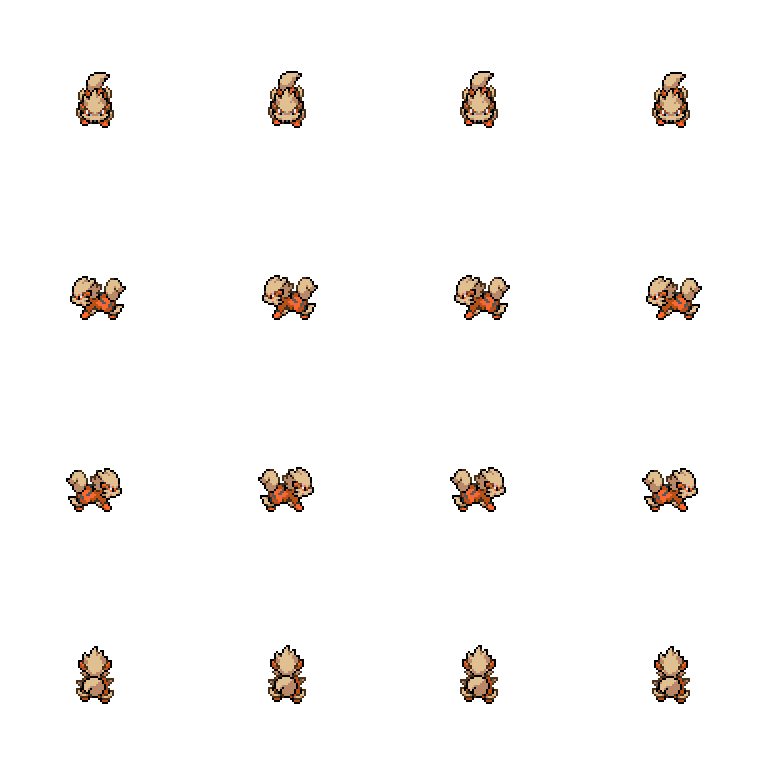
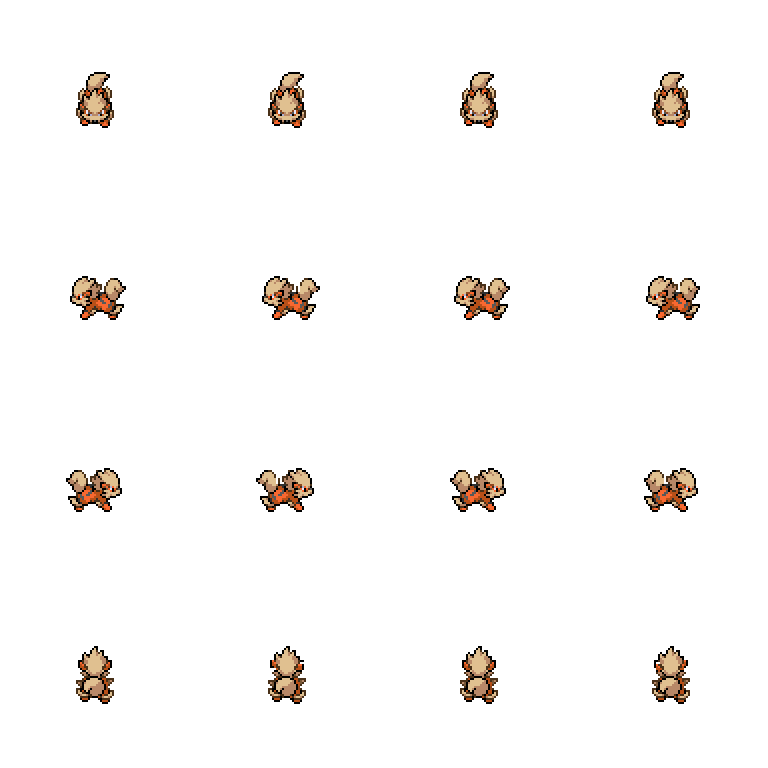
Replace Arcanine idle body lift with tail and ear motion

diff --git a/tools/build_mount_idle_pilot.py b/tools/build_mount_idle_pilot.py
@@ -1,8 +1,8 @@
 """Author four native-pixel idle cels for Arcanine and Lapras.
 
 Frame zero is the approved resting pose. Walking atlases are never modified.
-Arcanine's upper body lifts one pixel while the paws stay planted; the one-pixel
-join is filled from its existing fur. Lapras rises/falls one pixel above its
+Arcanine holds its body and rider still and moves only the tail tuft (ear tips from behind).
+Lapras rises/falls one pixel above its
 unchanged bottom water-contact rows. No scaling, rotation or interpolation.
 """
 import argparse
@@ -30,6 +30,36 @@ def move_upper(image, split, dy):
     return out
 
 
+def move_tail_tip(image, row, phase):
+    # Tail-only regions in the original 64px follower cell (origin 64,64).
+    # From behind the tail lies across the rump, so use the exposed ear tips
+    # instead: never cut a moving patch out of the body underneath the tail.
+    if not phase:
+        return image.copy()
+    if row == 3:
+        parts = [((16,22,20,30), 0, -phase), ((44,22,48,30), 0, phase)]
+    else:
+        regions = ((22,8,46,22), (42,22,64,36), (0,22,22,36))
+        parts = [(regions[row], phase if row != 2 else -phase, 0)]
+    out = image.copy()
+    protected = image.copy()
+    for region,dx,dy in parts:
+        x0,y0,x1,y1 = region
+        box = (64+x0,64+y0,64+x1,64+y1)
+        out.paste((0,0,0,0), box)
+        out.alpha_composite(image.crop(box), (box[0]+dx,box[1]+dy))
+        travel = (box[0]+min(0,dx),box[1]+min(0,dy),
+                  box[2]+max(0,dx),box[3]+max(0,dy))
+        protected.paste((0,0,0,0), travel)
+    actual = out.copy()
+    for region,dx,dy in parts:
+        x0,y0,x1,y1 = region
+        actual.paste((0,0,0,0), (64+x0+min(0,dx),64+y0+min(0,dy),
+                                  64+x1+max(0,dx),64+y1+max(0,dy)))
+    assert protected.tobytes() == actual.tobytes(), 'Arcanine body changed'
+    return out
+
+
 def build(check=False):
     path = ROOT/'data/mounts.json'
     text = path.read_text()
@@ -47,7 +77,7 @@ def build(check=False):
             filename = layer+'.png' if surf else 'idle_'+layer+'.png'
             sources[layer] = Image.open(folder/filename).convert('RGBA')
         sheets = {k: Image.new('RGBA', (size*4, size*4)) for k in ('mount','foreground','rider_mask')}
-        phases = (0, -1, 0, 1) if surf else (0, -1, -1, 0)
+        phases = (0, -1, 0, 1) if surf else (0, 2, 0, -2)
         seats = {}
         for row, direction in enumerate(DIRECTIONS):
             tiles = {key: im.crop((0,row*size,size,(row+1)*size)) for key,im in sources.items()}
@@ -59,13 +89,13 @@ def build(check=False):
             seats[direction] = []
             for col,dy in enumerate(phases):
                 for key,tile in tiles.items():
-                    cel = move_upper(tile, split, dy)
+                    cel = move_upper(tile, split, dy) if surf else move_tail_tip(tile, row, dy)
                     assert cel.crop((0,split,size,size)).tobytes() == tile.crop((0,split,size,size)).tobytes()
                     if col == 0:
                         assert cel.tobytes() == tile.tobytes()
                     sheets[key].paste(cel, (col*size,row*size))
                 x,y = cfg['riderOffsets'][direction][0]
-                seats[direction].append([x,y+dy])
+                seats[direction].append([x,y+dy if surf else y])
         for layer,im in sheets.items():
             target = folder/('animated_idle_'+layer+'.png')
             if check:
@@ -75,7 +105,7 @@ def build(check=False):
                 im.save(target)
         expected = dict(cfg)
         expected.update(idleFrameCount=4, idleAnimationSpeed=1.0,
-                        idleFrameDurations=[0.9,0.65,0.9,0.65] if surf else [1.35,0.35,0.75,0.55],
+                        idleFrameDurations=[0.9,0.65,0.9,0.65] if surf else [1.6,0.28,0.28,0.28],
                         idleRiderOffsets=seats)
         for field,layer in [('idleSpriteSheet','mount'),('idleForegroundSheet','foreground'),('idleRiderMaskSheet','rider_mask')]:
             expected[field] = f'res://assets/mounts/{mid}/animated_idle_{layer}.png'

diff --git a/CHANGELOG.md b/CHANGELOG.md
@@ -40,6 +40,7 @@
 
 ### Outfits and mounts
 
+- Give normal and shiny Arcanine small idle tail and ear movements while its body and rider remain steady.
 - Arcanine and Shiny Arcanine breathe gently while standing still, and Lapras gently bobs on the water, with the rider following the motion.
 - Get the Gyarados Surf Mount Box for 500 Aether Gems, with normal and red shiny variants using the approved riding pose and water effects.
 - Get the Thor outfit for 550 Gems, with a cape that moves as you walk and electric effects.

diff --git a/assets/mounts/idle_pilot.md b/assets/mounts/idle_pilot.md
@@ -1,7 +1,8 @@
 # Native idle pilot
 
 Arcanine, Shiny Arcanine and Lapras have four authored idle cels. Arcanine's
-upper body rises one pixel with its rider while its paws stay planted. Lapras
+body, paws and rider stay still; the tail tuft moves from the front/sides and
+the exposed ear tips flick from behind. Lapras
 bobs one pixel either side of its original resting pose; its lowest two water
 contact rows stay fixed. There is no scaling, rotation or interpolation.
 
